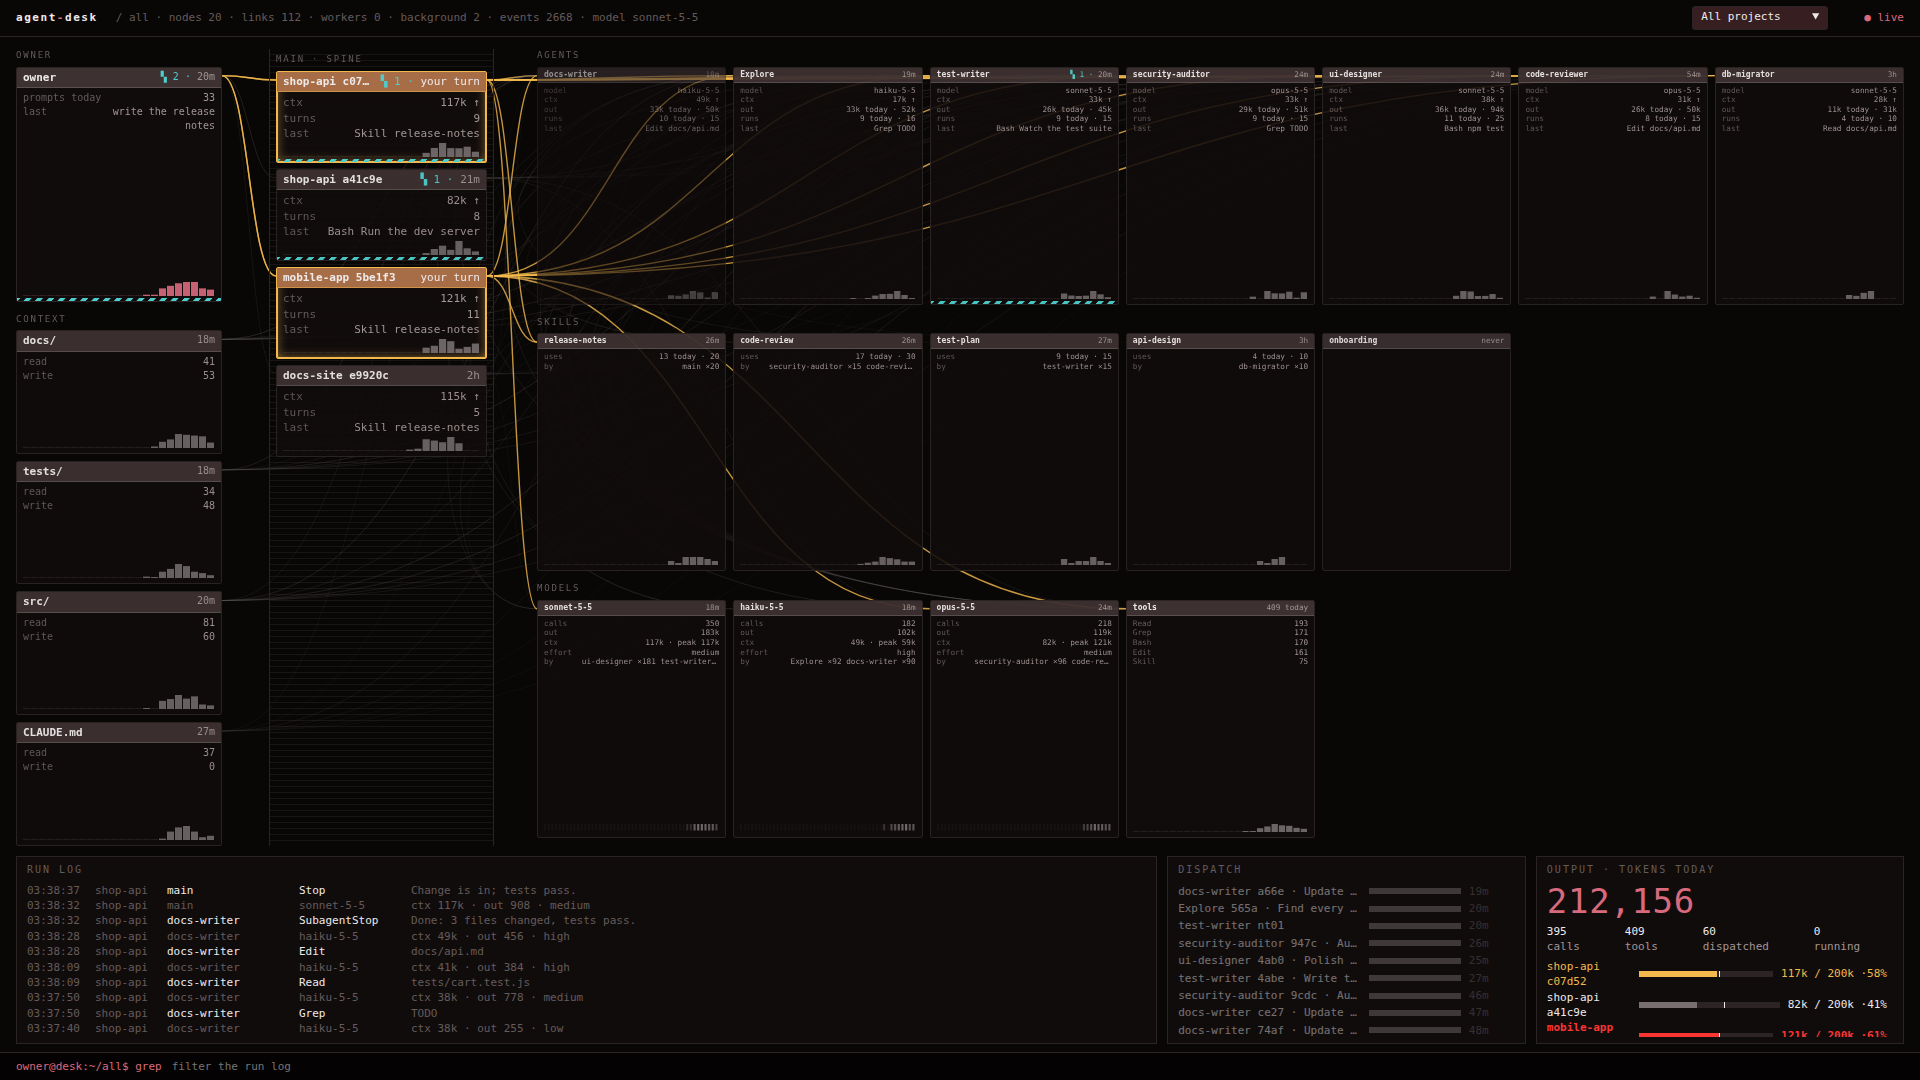
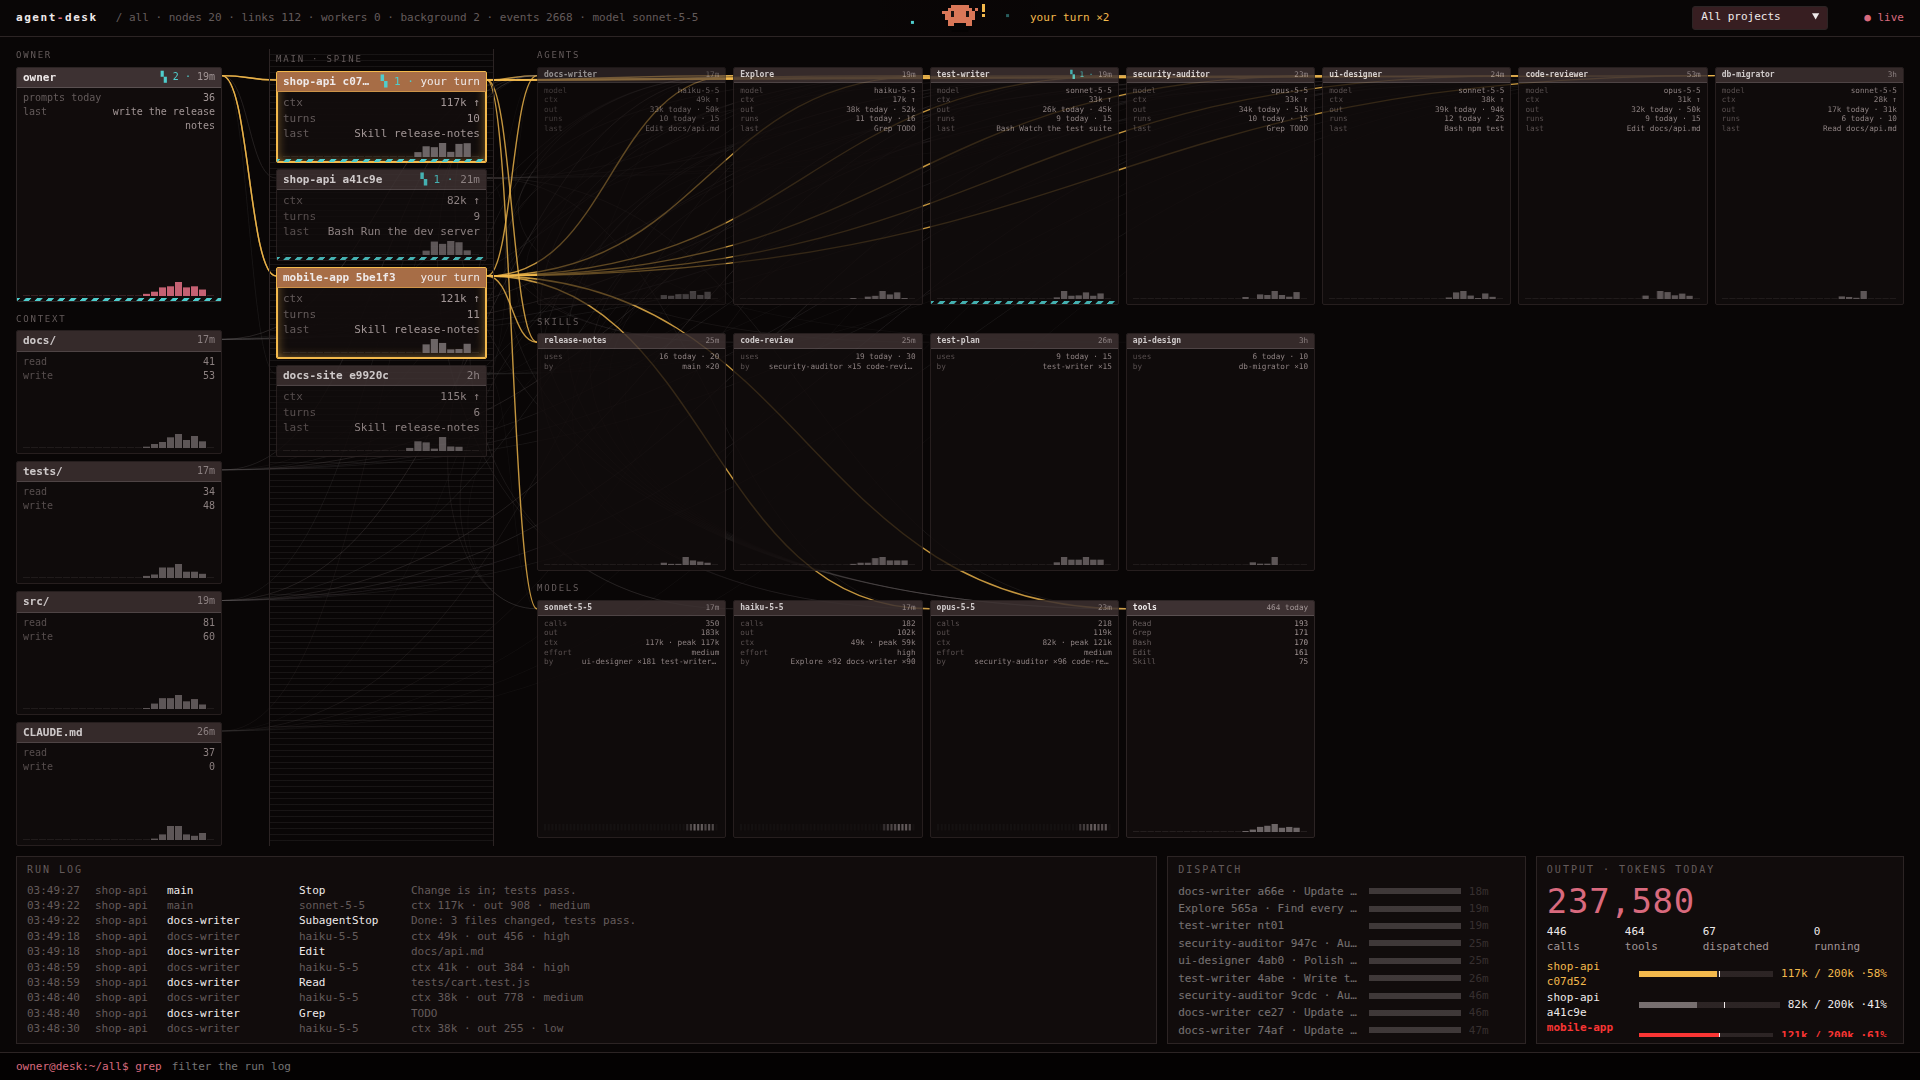
Desk buddy: an animated pixel creature in the title bar that acts out the desk's state

diff --git a/index.html b/index.html
@@ -33,6 +33,12 @@ h2 { margin: 0 0 6px; font-size: 10px; font-weight: 500; letter-spacing: .2em; c
 #filter option:hover, #filter option:focus-visible { background: color-mix(in oklch, var(--accent) 20%, var(--panel)); color: var(--text) }
 #filter option:checked { background: color-mix(in oklch, var(--accent) 35%, var(--panel)); color: var(--text) }
 #conn.on { color: var(--accent) }
+/* desk buddy: centred in the title bar, over whatever the status text runs to */
+#top { position: relative }
+#buddy { position: absolute; left: 50%; top: 0; height: 100%; translate: -50%; display: flex; align-items: center; padding: 0 18px; pointer-events: none;
+  background: linear-gradient(90deg, transparent, var(--bg) 16px calc(100% - 16px), transparent) }
+#bud { width: 132px; height: 28px; pointer-events: auto; cursor: pointer }
+#say { position: absolute; left: calc(100% - 14px); white-space: nowrap; color: var(--muted) }   /* beside the figure, so its length never moves it */ #say.wait { color: var(--attn) } #say.busy { color: var(--text) }
 
 #stage { position: relative; display: grid; grid-template-columns: 210px 225px minmax(0, 1fr); grid-template-rows: minmax(0, 1fr); column-gap: 43px; padding: 12px 16px 10px; min-height: 0; overflow: hidden }
 #wires { position: absolute; inset: 0; pointer-events: none }
@@ -147,13 +153,14 @@ footer input { flex: 1; min-width: 0; background: none; border: 0; outline: 0; c
 @property --p { syntax: '<percentage>'; inherits: true; initial-value: 0% }
 @media (max-width: 900px) {
   body { overflow: auto; height: auto; grid-template-rows: auto } #top { flex-wrap: wrap } #stage { grid-template-columns: 1fr; row-gap: 14px } #wires { display: none }
-  #tip { display: none } .area, #spine { grid-auto-rows: 96px } #left .cell { flex: none; height: 96px } #spine .cell { flex-basis: 92px } #band { grid-template-columns: 1fr } .box { height: 220px }
+  #tip, #buddy { display: none } .area, #spine { grid-auto-rows: 96px } #left .cell { flex: none; height: 96px } #spine .cell { flex-basis: 92px } #band { grid-template-columns: 1fr } .box { height: 220px }
 }
 @media (prefers-reduced-motion: reduce) { .open, #disp i, #tip { transition: none } #tip header i, .bgd::after { animation: none } ::view-transition-group(*) { animation-duration: 0s } }
 </style>
 
 <header id="top">
   <b>agent<span>-</span>desk</b><span id="gstat"></span>
+  <div id="buddy"><canvas id="bud" role="img" title="click me"></canvas><span id="say" aria-live="off"></span></div>
   <select id="filter" aria-label="Project" autocomplete="off">
     <option value="All">All projects</option>
   </select>
@@ -193,7 +200,7 @@ const hhmm = t => new Date(t * 1000).toTimeString().slice(0, 8)
 const ago = t => { const s = Date.now() / 1000 - t | 0; return s < 60 ? s + 's' : s < 3600 ? (s / 60 | 0) + 'm' : s < 86400 ? (s / 3600 | 0) + 'h' : (s / 86400 | 0) + 'd' }
 const reduce = matchMedia('(prefers-reduced-motion: reduce)').matches
 const DPR = devicePixelRatio || 1
-const root = getComputedStyle(document.documentElement), C = { accent: root.getPropertyValue('--accent'), attn: root.getPropertyValue('--attn'), wire: root.getPropertyValue('--wire') }
+const root = getComputedStyle(document.documentElement), C = { accent: root.getPropertyValue('--accent'), attn: root.getPropertyValue('--attn'), wire: root.getPropertyValue('--wire'), back: root.getPropertyValue('--back') }
 // shortcut: "today" is fixed at page load; reload after midnight
 const day = new Date().setHours(0, 0, 0, 0) / 1000
 const desk = window.desk = { live: 0, pulses: 0 }
@@ -547,6 +554,7 @@ function render() {
   queue.push(...calls.slice(from < 0 ? -8 : from + 1)); fed = calls.at(-1)
   if (queue.length > 30) queue.splice(0, queue.length - 30)
   if (hov) tipPaint()
+  Object.assign(desk, { wait: sess.filter(x => state.get('S:' + x.id) === 'wait').length, run: running.length, bgn: bgOn.length, last: sess[0]?.t || 0 })   // what the buddy acts out
   kick(400)
 }
 
@@ -687,6 +695,49 @@ function ticker(now) {
     el._r = r; tape.append(el)
   }
   tape.style.transform = `translateX(${tx}px)`
+  buddy(now)
+}
+
+/* ---------- desk buddy: a pixel creature in the title bar that acts out what the desk is doing ---------- */
+// asleep when nothing has happened for 5 min · watching when idle · pacing while work flows, hopping on every event ·
+// jumping and waving when a session waits for you. Pink dots circling it = agents running, teal ones = background tasks.
+const bud = $('bud'), bx = bud.getContext('2d'), CORAL = '#da7758', DARK = '#1c1210'
+const BODY = ['..######..', '.########.', '##########', '##########', '##########', '.########.'], LEGS = ['.##....##.', '..##..##..']
+let hopT = -1e9, flipT = -1e9, said
+bud.width = 132 * DPR; bud.height = 28 * DPR
+bud.onclick = () => { flipT = performance.now() }   // it does a flip
+function buddy(now) {
+  const t = reduce ? 0 : now / 1000, idle = Date.now() / 1000 - (desk.last || 0)
+  const mood = desk.wait ? 'wait' : desk.run || idle < 4 ? 'busy' : idle > 300 ? 'sleep' : 'idle'
+  const hop = reduce ? 1 : (now - hopT) / 280, flip = reduce ? 1 : (now - flipT) / 600
+  const jump = mood === 'wait' ? Math.abs(Math.sin(t * 5)) * 4 : hop < 1 ? Math.sin(hop * Math.PI) * 4 : 0
+  const x0 = 51 + (mood === 'busy' ? Math.round(Math.sin(t * 2.2) * 8) : 0)
+  const y0 = 5 - Math.round(jump) + (mood !== 'wait' && Math.sin(t * (mood === 'sleep' ? 1.2 : 3)) > .6 ? 1 : 0)   // it breathes
+  const px = (c, r, col) => { bx.fillStyle = col; bx.fillRect(x0 + c * 3, y0 + r * 3, 3, 3) }
+  bx.setTransform(DPR, 0, 0, DPR, 0, 0); bx.clearRect(0, 0, 132, 28)
+  const orbit = (n, speed, rx, ry, col, size, front) => {   // drawn in two passes so the far half passes behind the body
+    for (let i = 0; i < Math.min(6, n || 0); i++) {
+      const a = t * speed + i * 2 * Math.PI / Math.min(6, n)
+      if (Math.sin(a) > 0 === front) { bx.fillStyle = col; bx.globalAlpha = front ? 1 : .45; bx.fillRect(x0 + 15 + Math.cos(a) * rx - size / 2, 15 + Math.sin(a) * ry - size / 2, size, size) }
+    }
+    bx.globalAlpha = 1
+  }
+  orbit(desk.run, 2.6, 34, 8, C.accent, 3, false); orbit(desk.bgn, -1.4, 50, 11, C.back, 3, false)
+  bx.fillStyle = '#000'; bx.globalAlpha = .4; bx.fillRect(x0 + 3 + jump, 26, 24 - jump * 2, 2)   // its shadow shrinks as it leaves the ground
+  bx.globalAlpha = mood === 'sleep' ? .55 : 1
+  if (flip < 1) { bx.translate(x0 + 15, y0 + 10); bx.rotate(flip * 2 * Math.PI); bx.translate(-x0 - 15, -y0 - 10) }
+  const step = mood === 'busy' || jump > 1 ? (t * 9 | 0) % 2 : 0
+  ;[...BODY, LEGS[step]].forEach((row, r) => [...row].forEach((ch, c) => ch === '#' && px(c, r, CORAL)))
+  for (const [c, k] of [[-1, 0], [10, 1]]) px(c, mood === 'wait' ? 1 + ((t * 8 + k | 0) % 2) : 3, CORAL)   // arms: down when calm, waving when it wants you
+  const look = mood === 'busy' ? Math.sign(Math.cos(t * 2.2)) : Math.sin(t / 2.3) > .8 ? 1 : Math.sin(t / 3.1) < -.85 ? -1 : 0
+  for (const c of [2, 7]) if (mood === 'sleep' || t % 4.2 < .13) px(c, 3, DARK); else { px(c + look, 2, DARK); px(c + look, 3, DARK) }   // shut, blinking, or glancing
+  bx.setTransform(DPR, 0, 0, DPR, 0, 0); bx.globalAlpha = 1
+  orbit(desk.run, 2.6, 34, 8, C.accent, 3, true); orbit(desk.bgn, -1.4, 50, 11, C.back, 3, true)
+  if (mood === 'wait') { bx.fillStyle = C.attn; bx.fillRect(x0 + 37, y0 - 1, 3, 8); bx.fillRect(x0 + 37, y0 + 9, 3, 3) }   // "!"
+  if (mood === 'sleep') { bx.fillStyle = C.wire; bx.font = '9px monospace'; for (let i = 0; i < 3; i++) { const u = (t * .4 + i / 3) % 1; bx.globalAlpha = 1 - u; bx.fillText('z', x0 + 34 + u * 16, y0 + 12 - u * 12) } bx.globalAlpha = 1 }
+  const text = mood === 'wait' ? `your turn${desk.wait > 1 ? ' ×' + desk.wait : ''}` : mood === 'sleep' ? 'asleep' : mood === 'idle' ? 'watching'
+    : (desk.run ? `${desk.run} agent${desk.run > 1 ? 's' : ''} working` : 'working') + (desk.bgn ? ` · ${desk.bgn} in background` : '')
+  if (text !== said) { said = $('say').textContent = text; $('say').className = mood; bud.ariaLabel = 'Desk status: ' + text }
 }
 requestAnimationFrame(ticker)
 
@@ -709,7 +760,7 @@ es.onmessage = m => {
   if (!stores[p]) { stores[p] = fresh(); $('filter').add(new Option(p)) }
   add(stores.All, e, L); add(stores[p], e, L)
   if (e.t >= connectT - 3 && (filter === 'All' || filter === p)) {
-    desk.live++; pulse(L)
+    desk.live++; pulse(L); if (performance.now() - hopT > 280) hopT = performance.now()   // the buddy hops
   }
   dirty()
 }

diff --git a/README.md b/README.md
@@ -3,9 +3,12 @@
 A second brain dashboard for agent and models monitoring and health.
 
 ![The dashboard: owner and context on the left, main sessions in the middle, agents and models on the right, run log below; demo data](sample.png)
+
 One local page that shows, live, what every Claude Code session on your machine is doing: your prompts, the main sessions, every sub-agent and the model it runs on, skills and who used them, tool calls, token output, and how full each context window is (amber at 50%, red at 60%). It finds all projects by itself — any agents, any models — and lets you filter by project.
 
 A tile with work still running in the background (a command, an agent or a workflow sent there) carries a moving teal edge and a count; so do its session and the owner tile.
+
+In the middle of the title bar lives the desk buddy, a small pixel creature that acts out the state of the desk: asleep after five quiet minutes, watching when idle, pacing and hopping on every event while work flows, jumping and waving when a session waits for you. Pink dots circling it are running agents, teal ones background tasks. Click it.
 
 Hover any tile (or reach it with Tab) for a live card with its full detail: key figures, context against its window, activity charts, who called it, which models and tools it used, and its latest actions. Everything linked to that tile stays lit while the rest steps back.
 
